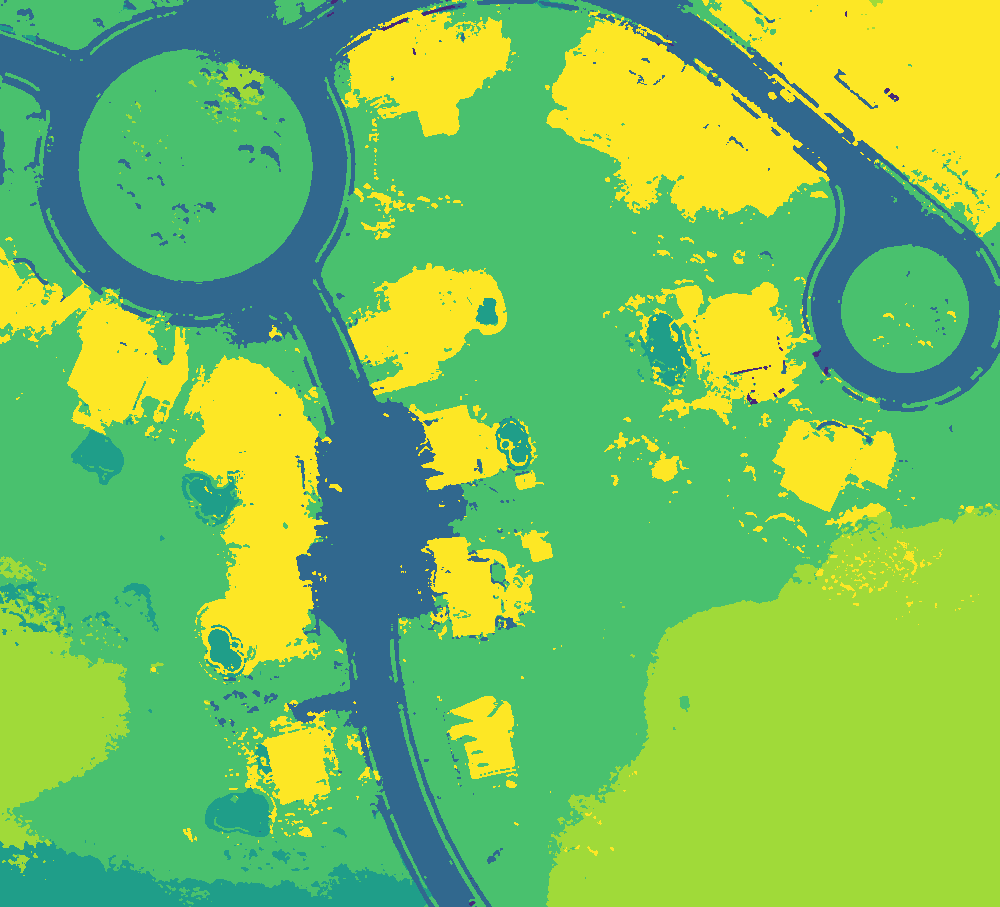
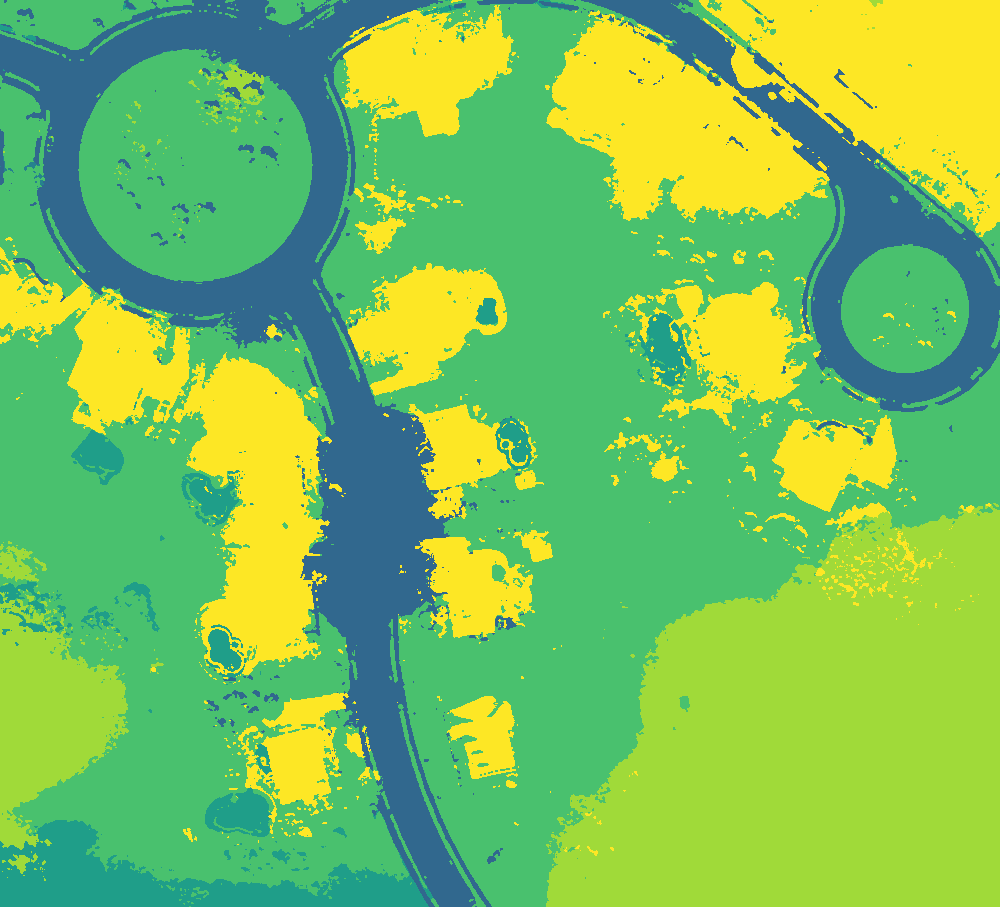
emmm

diff --git a/dino_splat_ov/splat.py b/dino_splat_ov/splat.py
@@ -31,9 +31,9 @@ model = model.to(device).eval()
 win_size = 256
 stride = 128
 class_groups = [
-    ["car"],
-    ["bus"],
-    ["road","pavement","sidewalk"],
+    # ["car"],
+    # ["bus"],
+    ["road","sidewalk"],
     ["forest","vegetation", "tree"],
     ["river", "water","pool"],
     ["grass","bareland", "barren"],
@@ -43,8 +43,8 @@ class_groups = [
 
 # 彩色掩膜
 preset_palette = [
-    (72, 40, 120),
-    (62, 74, 137),
+    # (72, 40, 120),
+    # (62, 74, 137),
     (49, 104, 142),
     (38, 130, 142),
     (31, 158, 137),
@@ -81,7 +81,7 @@ for idx_list in group_index_maps:
 group_text_feats = torch.cat(group_text_feats, dim=0)  # [num_classes, D]
 
 # 初始化 TLP 并绑定文本特征
-tlp = TLP(grid=80).to(device)
+tlp = TLP(grid=40).to(device)
 tlp.bind_text(group_text_feats)
 
 
